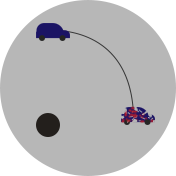
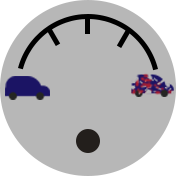
updated health gauge

diff --git a/core/src/edu/cornell/gdiac/mangosnoops/roadentity/Car.java b/core/src/edu/cornell/gdiac/mangosnoops/roadentity/Car.java
@@ -58,7 +58,7 @@ public class Car extends RoadObject {
         health = 100;
         nosh = new Child(Child.ChildType.NOSH);
         ned = new Child(Child.ChildType.NED);
-        healthPointerAng = 0.0f;
+        healthPointerAng = 50.0f;
 
         timeToDisplayDamageIndicator = 10;
     }
@@ -134,7 +134,7 @@ public class Car extends RoadObject {
         health = 100;
         nosh = new Child(Child.ChildType.NOSH);
         ned = new Child(Child.ChildType.NED);
-        healthPointerAng = 0.0f;
+        healthPointerAng = 50.0f;
 
         timeToDisplayDamageIndicator = 10;
     }
@@ -160,7 +160,7 @@ public class Car extends RoadObject {
         ned.update(clickPos);
 
         // Update health angle
-        healthPointerAng = Math.max((float) (health - 100), -90.0f);
+        healthPointerAng = Math.max((float) (health - 50), -50.0f);
 
         if (isDamaged && timeToDisplayDamageIndicator > 0) {
             timeToDisplayDamageIndicator -= delta * DISPLAY_DEPLETION;

diff --git a/core/src/edu/cornell/gdiac/mangosnoops/GameMode.java b/core/src/edu/cornell/gdiac/mangosnoops/GameMode.java
@@ -399,7 +399,7 @@ public class GameMode implements Screen {
 
 		// Health gauge and pointer
 		canvas.draw(healthGauge, Color.WHITE, 0.0f,0.0f,25.0f,4.0f,0.0f,0.40f,0.40f);
-        canvas.draw(healthPointer, Color.WHITE, 0.0f, 0.0f, 43.0f, 23.0f, gameplayController.getCar().getHealthPointerAng(), 0.5f,0.3f);
+        canvas.draw(healthPointer, Color.WHITE, 0.0f, 0.0f, 60.0f, 20.0f, gameplayController.getCar().getHealthPointerAng(), 0.5f,0.2f);
 
 		if (gameState == GameState.OVER) {
 			canvas.drawTextCentered("GNOME OVER",displayFont, GAME_OVER_OFFSET);
